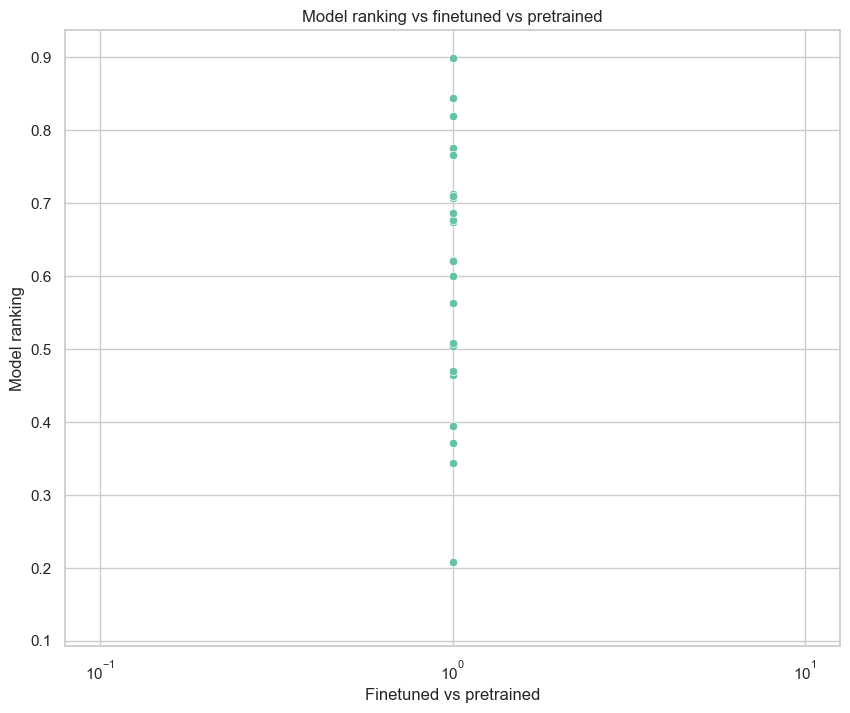
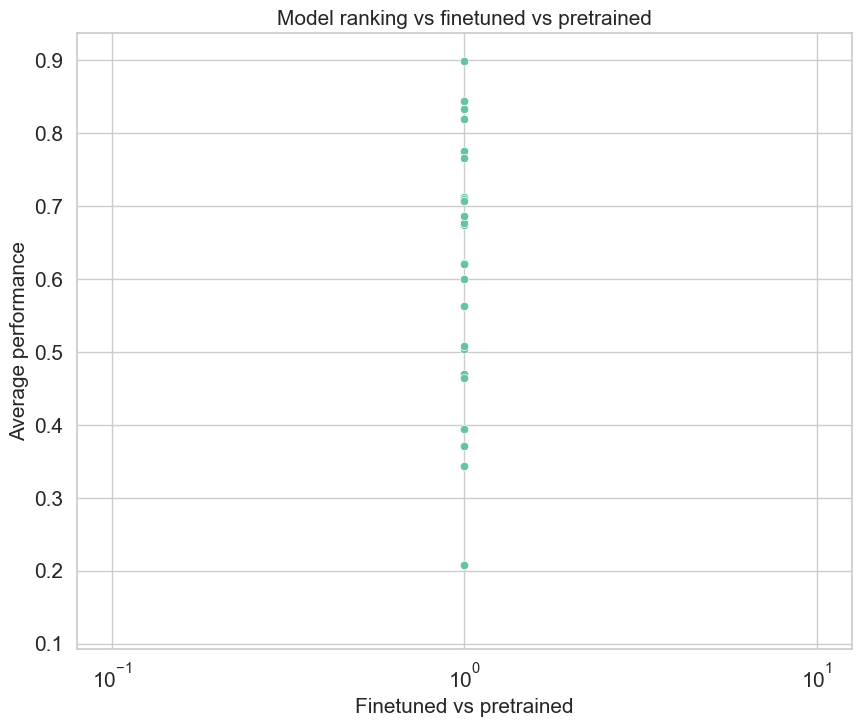
change fontsize

Changed region(s): [[0.0, 0.0, 1.0, 0.9874], [0.1224, 0.5554, 0.1529, 0.6171], [0.52, 0.7714, 0.5506, 0.8022]]

diff --git a/script_mteb_french/results_analysis/performance_vs_characteristics.py b/script_mteb_french/results_analysis/performance_vs_characteristics.py
@@ -41,7 +41,7 @@ COLS_TO_KEEP_GLOBAL_CORRELATION = {
     "tuned_on_sentence_sim": "Tuned for sentence similarity",
     "bilingual": "Bilingual",
     "english": "English",
-    "english_plus": "English tuned on other languages",
+    "english_plus": "English +\ntuning on\nother languages",
     "french": "French",
     "multilingual": "Multilingual",
     "Closed source": "Closed source",
@@ -112,21 +112,26 @@ def perfomance_vs_characteristic_plot(
 ):
     data = prepare_data(results_df, characteristics_df, mode)
     data[target_characteristic] = data[target_characteristic].apply(lambda x: COLS_TO_KEEP_GLOBAL_CORRELATION[x] if x in COLS_TO_KEEP_GLOBAL_CORRELATION else x)
-    # Set seaborn style
+    
     sns.set(style="whitegrid")
     sns.set_palette("Set2")
     plt.figure(figsize=(10, 8))
     charac_display_name = CHARACTERISTICS_DISPLAY_NAMES[target_characteristic]
-    plt.title(f"Model ranking vs {charac_display_name.lower()}")
-    plt.xlabel(charac_display_name)
-    plt.ylabel("Model ranking")
+    plt.title(f"Model perfromance vs {charac_display_name.lower()}", fontsize=15)
+    plt.xlabel(charac_display_name, fontsize=15)
+    plt.ylabel("Average performance", fontsize=15)
     if characteristic_type == "categorical":
         sns.boxplot(data=data, x=target_characteristic, y="score")
+        plt.xticks(fontsize=15)
+        plt.yticks(fontsize=15)
     elif characteristic_type == "numerical":
         sns.scatterplot(data=data, x=target_characteristic, y="score")
         plt.xscale("log")
+        plt.xticks(fontsize=15)
+        plt.yticks(fontsize=15)
     else:
         raise ValueError(f"Unknown characteristic type: {characteristic_type}")
+
     plt.savefig(output_path, bbox_inches="tight")
 
 
@@ -141,10 +146,13 @@ if __name__ == "__main__":
     results_df = results_df.droplevel(0, axis=1)
     results_df = results_df.reset_index()
     results_df["model"] = results_df["model"].apply(
-        lambda x: x.replace(args.results_folder, "").replace("\\", "/")
+        lambda x: os.path.basename(x)
     )
 
     characteristics_df = pd.read_csv(args.characteristics_csv)
+    characteristics_df["model"] = characteristics_df["model"].apply(
+        lambda x: os.path.basename(x)
+    )
     global_correlation(results_df, characteristics_df, args.output_folder)
     for k, v in CHARACTERISTICS.items():
         output_path = os.path.join(args.output_folder, f"perf_vs_{k}_avg.png")
